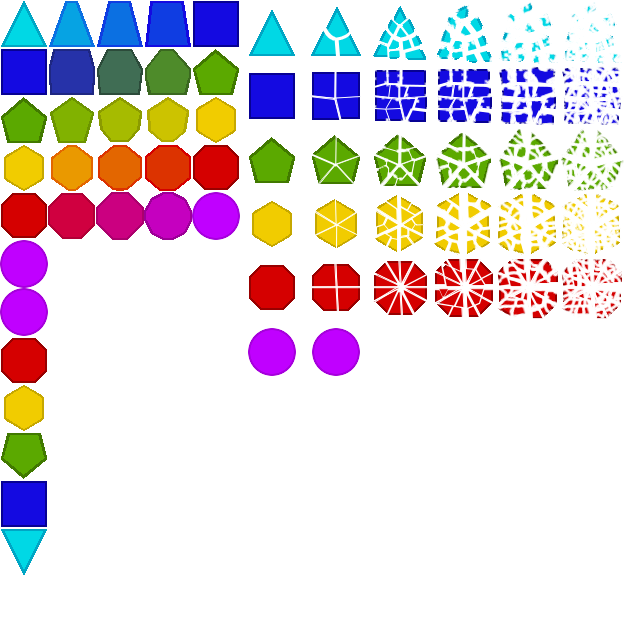
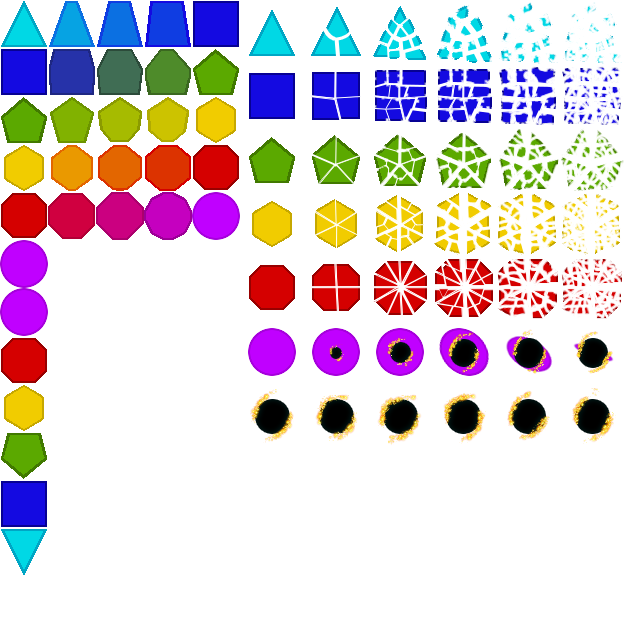
Black hole!

diff --git a/projects/ld35/js/application/player.js b/projects/ld35/js/application/player.js
@@ -10,6 +10,7 @@ var Player = function(x, y, minGear, maxGear, numLanes) {
     this.maxGear = 8;//maxGear;
     this.setGear(this.minGear);
     this.numLanes = numLanes;
+    this.angle = 0;
     if (numLanes == 3) {
         this.setLane(2);
     } else {
@@ -24,6 +25,7 @@ var Player = function(x, y, minGear, maxGear, numLanes) {
     this.shiftingUp = false;
     this.shiftingDown = false;
     this.isDying = false;
+    this.hasBlackHoleStarted = false;
 }
 
 Player.prototype.moveUp = function() {
@@ -91,9 +93,22 @@ Player.prototype.draw = function(context, frame) {
     var displayGear = this.gear;
     var sprite;
     if (this.isDying) {
+        if (this.gear == 8) {
+            this.angle += 2;
+
+            if (this.angle > 360) {
+                this.angle -= 360;
+            }
+        }
         if (frame % 5 == 0) {
-            if (this.frame < 6) {
+            if (this.gear < 8 && this.frame < 6) {
                 this.frame ++;
+            } else if (this.gear == 8) {
+                if (this.frame < 11) {
+                    this.frame ++;
+                } else {
+                    this.frame = 6;
+                }
             }
         }
         sprite = "player" + "-gear" + displayGear + "-death" + this.frame;
@@ -122,7 +137,7 @@ Player.prototype.draw = function(context, frame) {
         sprite = "player" + "-gear" + displayGear + "-" + this.frame;
     }
 
-    spriteMapper.getImage(sprite).drawImage(context, this.x, this.y);
+    spriteMapper.getImage(sprite).drawImage(context, this.x, this.y, this.angle);
 }
 
 Player.prototype.setSpeeds = function(speed, minVelocity, maxVelocity) {

diff --git a/projects/ld35/js/application/enemies.js b/projects/ld35/js/application/enemies.js
@@ -55,7 +55,7 @@ Enemies.prototype.getNumEnemies = function() {
     return this.enemies.length;
 }
 
-Enemies.prototype.move = function(delta) {
+Enemies.prototype.move = function(delta, player) {
     var self = this;
 
     var normalDelta = 1000 / 60;
@@ -63,11 +63,21 @@ Enemies.prototype.move = function(delta) {
 
     var realIndex = 0;
     self.enemies.forEach(function(enemy, index) {
-        enemy.move(timeDelta);
+        enemy.move(timeDelta, player);
 
-        if (enemy.y > CANVAS_HEIGHT + 100) {
-            self.enemies.splice(realIndex, 1);
-            realIndex --;
+        if (player.hasBlackHoleStarted) {
+            var offset = 20;
+            if (enemy.y+48-offset > player.y && player.y + 48-offset > enemy.y) {
+                if (enemy.x+48-offset > player.x && player.x + 48-offset > enemy.x) {
+                    self.enemies.splice(realIndex, 1);
+                    realIndex --;
+                }
+            }
+        } else {
+            if (enemy.y > CANVAS_HEIGHT + 100) {
+                self.enemies.splice(realIndex, 1);
+                realIndex --;
+            }
         }
 
         realIndex ++;

diff --git a/projects/ld35/js/application/sprites.js b/projects/ld35/js/application/sprites.js
@@ -164,7 +164,12 @@ spriteMapper.addImage('player-gear8-death2', 'player', 368, 320, 64, 64);
 spriteMapper.addImage('player-gear8-death3', 'player', 432, 320, 64, 64);
 spriteMapper.addImage('player-gear8-death4', 'player', 496, 320, 64, 64);
 spriteMapper.addImage('player-gear8-death5', 'player', 560, 320, 64, 64);
-spriteMapper.addImage('player-gear8-death6', 'player', 560, 560, 64, 64);
+spriteMapper.addImage('player-gear8-death6', 'player', 240, 384, 64, 64);
+spriteMapper.addImage('player-gear8-death7', 'player', 304, 384, 64, 64);
+spriteMapper.addImage('player-gear8-death8', 'player', 368, 384, 64, 64);
+spriteMapper.addImage('player-gear8-death9', 'player', 432, 384, 64, 64);
+spriteMapper.addImage('player-gear8-death10', 'player', 496, 384, 64, 64);
+spriteMapper.addImage('player-gear8-death11', 'player', 560, 384, 64, 64);
 
 spriteMapper.addImage('enemy-gear8-0', 'player', 0, 288, 48, 48);
 spriteMapper.addImage('enemy-gear7-0', 'player', 0, 336, 48, 48);

diff --git a/projects/ld35/js/application/enemy.js b/projects/ld35/js/application/enemy.js
@@ -11,8 +11,27 @@ var Enemy = function(numLanes, lane, gear, velocity, y) {
     this.gear = gear;
 }
 
-Enemy.prototype.move = function(timeDelta) {
-    this.y += timeDelta * this.velocity;
+Enemy.prototype.move = function(timeDelta, player) {
+    if (player.hasBlackHoleStarted) {
+        var diffX = this.x - player.x;
+        var diffY = this.y - player.y;
+        var percentX = Math.abs(diffX) / Math.abs(diffX + diffY);
+        var percentY = 1 - percentX;
+
+        if (this.x > player.x) {
+            this.x -= percentX * this.velocity;
+        } else {
+            this.x += percentX * this.velocity;
+        }
+
+        if (this.y < player.y) {
+            this.y += percentY * this.velocity;
+        } else {
+            this.y -= percentY * this.velocity;
+        }
+    } else {
+        this.y += timeDelta * this.velocity;
+    }
 }
 
 Enemy.prototype.draw = function(context, frame) {

diff --git a/projects/ld35/js/application/game.js b/projects/ld35/js/application/game.js
@@ -130,11 +130,16 @@ var CANVAS_WIDTH = 800,
             enemies.spawn(track.numLanes);
         }
 
-        enemies.move(delta);
+        enemies.move(delta, player);
         player.move(delta);
 
-        if (player.isDying && player.frame == 6) {
-            stop();
+        if (player.isDying) {
+            if (player.gear < 8 && player.frame == 6) {
+                stop();
+            } else if (player.gear == 8 && player.frame > 6 && !player.hasBlackHoleStarted) {
+                player.hasBlackHoleStarted = true;
+                player.velocity = 0;
+            }
         } else if (!player.isDying) {
             var death = enemies.checkForCollision(player);
             if (death) {
